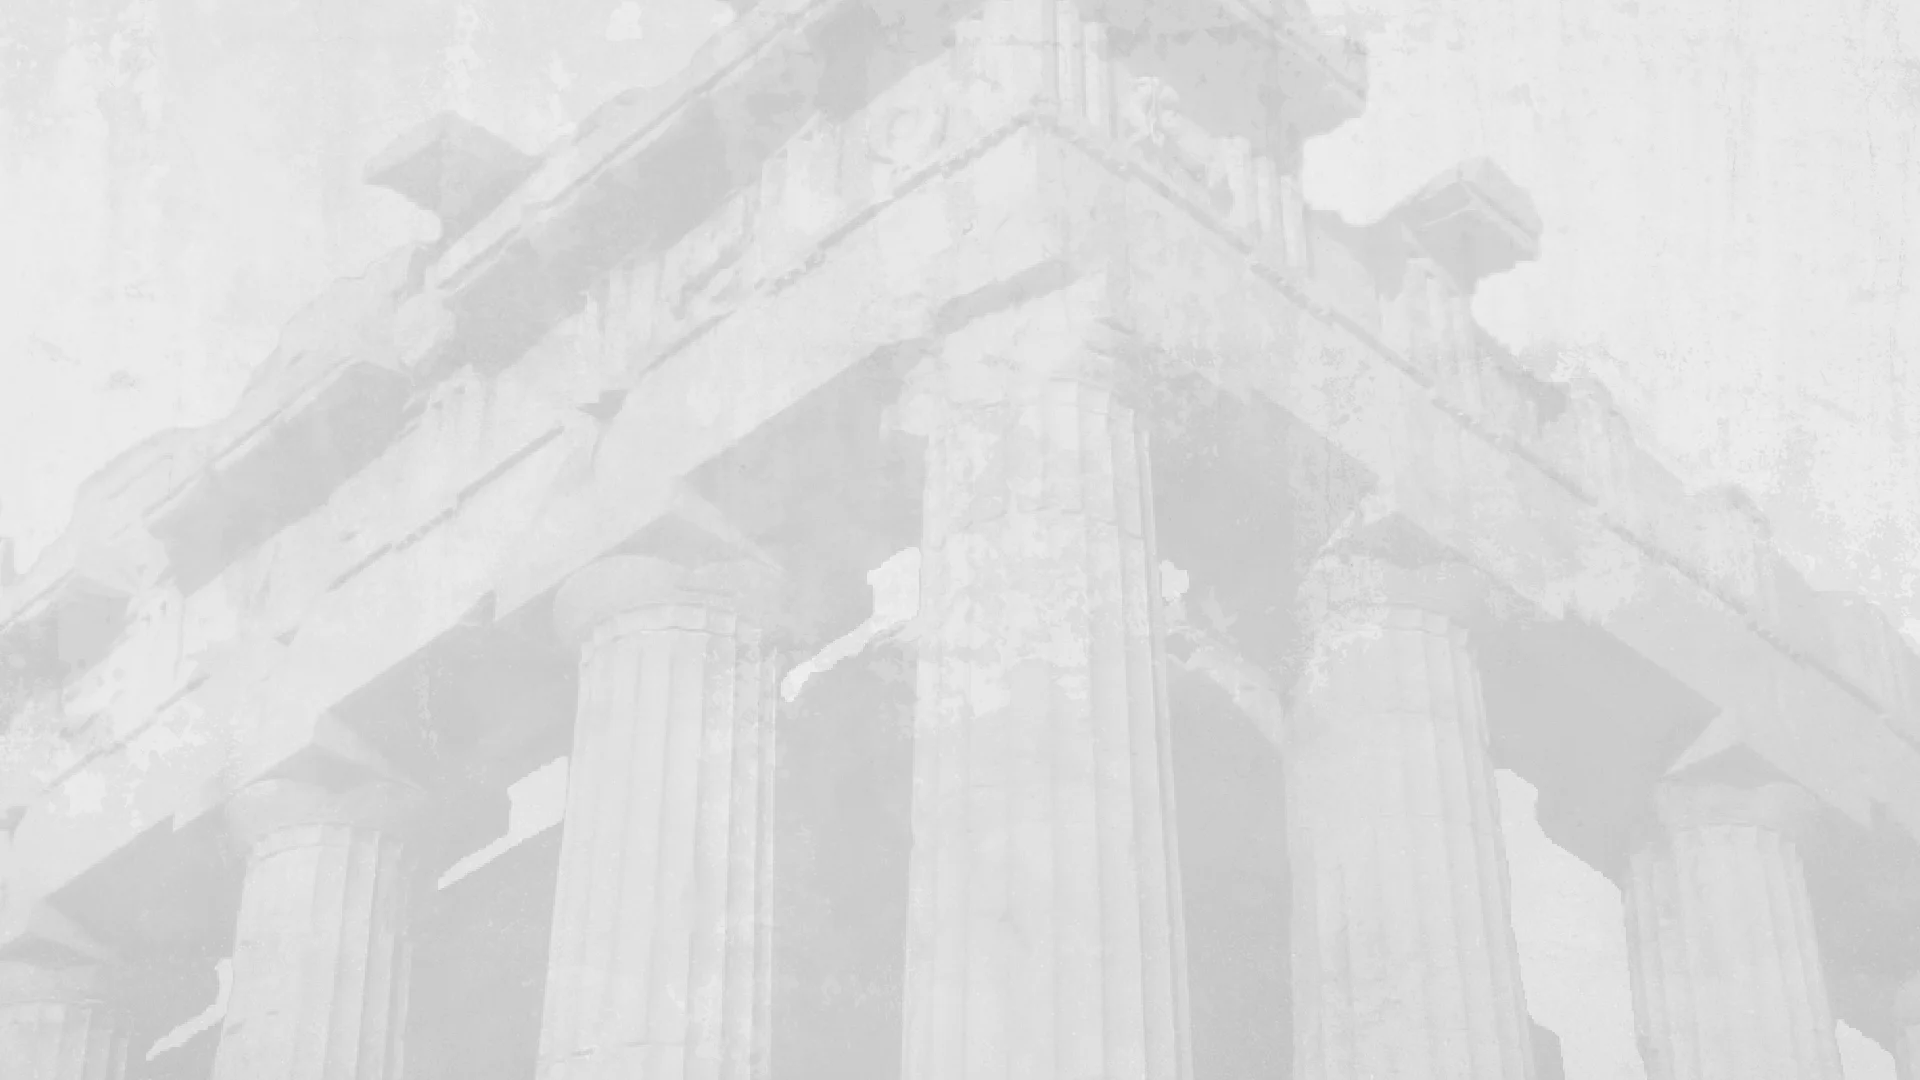
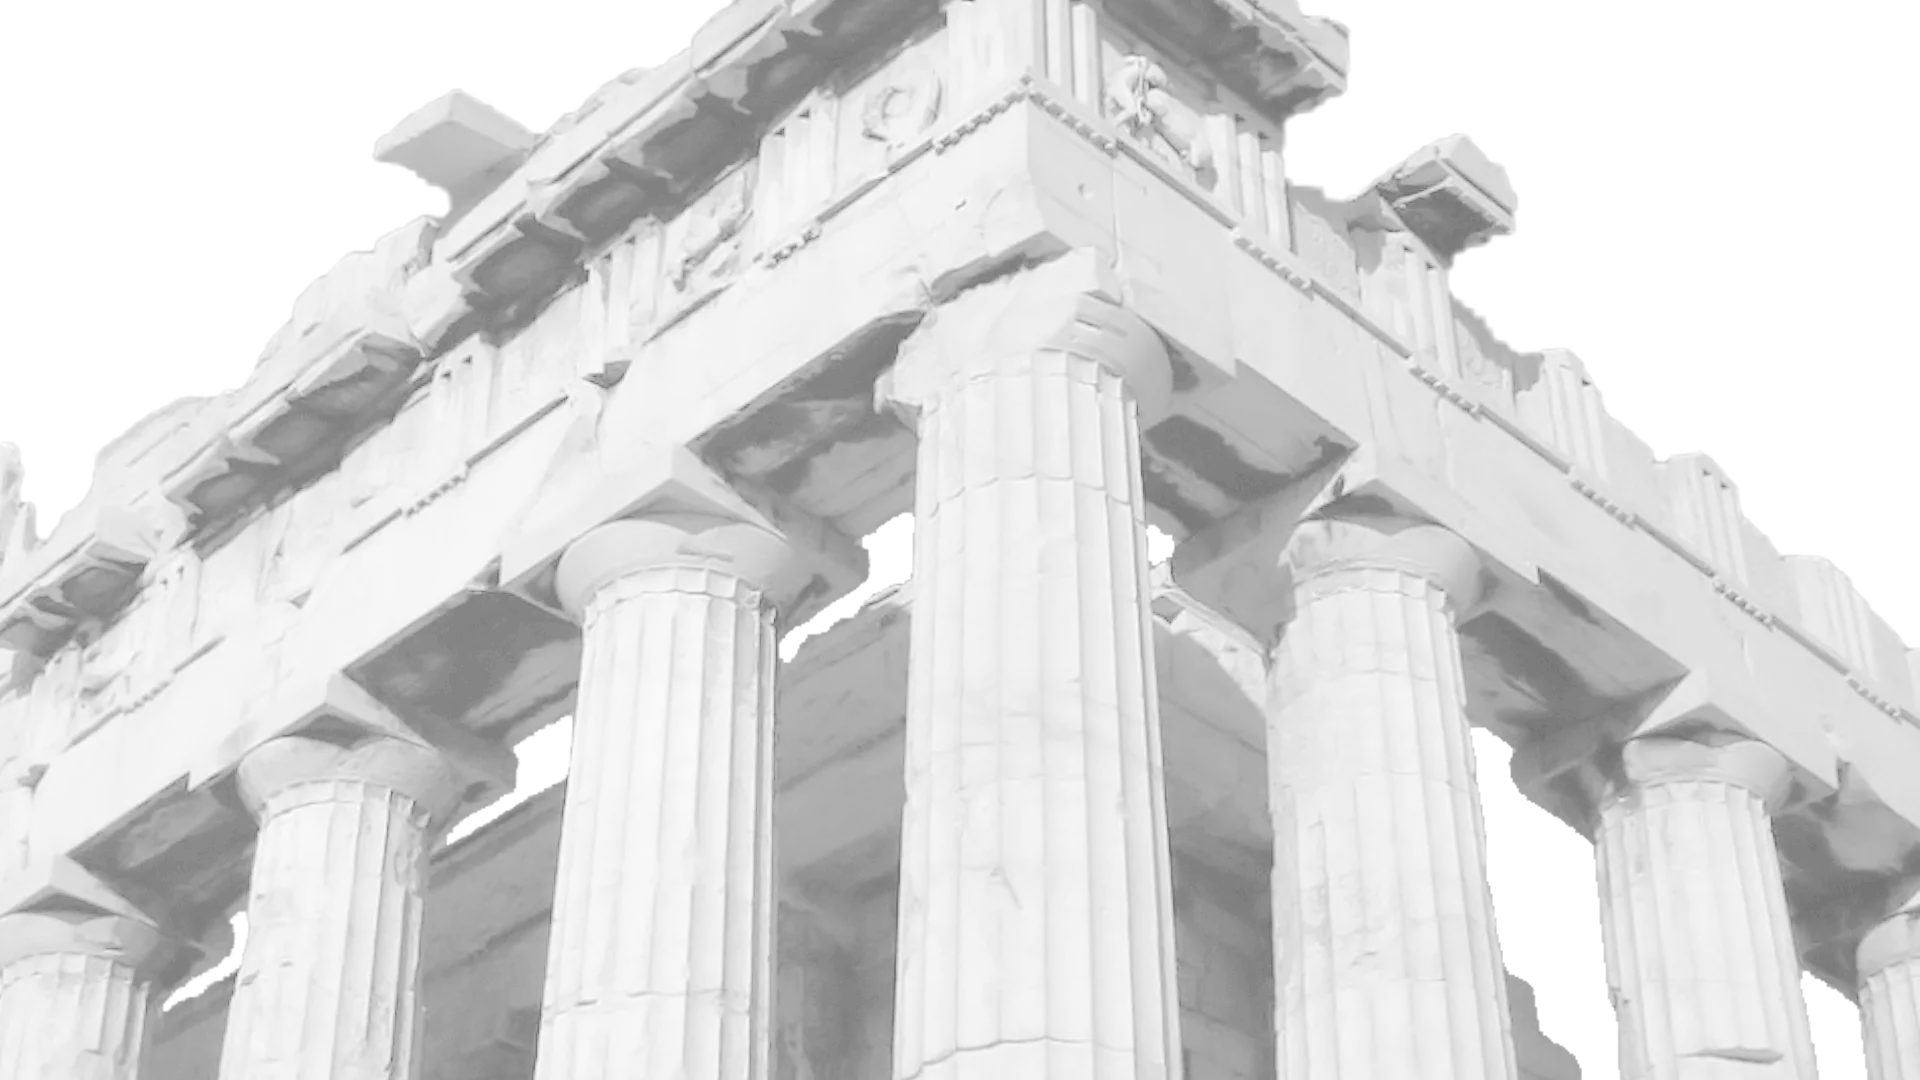
background's elements animation on about-us screen.

diff --git a/anime_website/src/screens/About_Us.js b/anime_website/src/screens/About_Us.js
@@ -5,7 +5,8 @@ import InfoBox from '../components/InfoBox';
 import image1 from '../images/aboutUs/1.jpg';
 import image2 from '../images/aboutUs/2.jpg';
 import image3 from '../images/aboutUs/3.jpg';
-import backgroundImage from '../images/background/about-bg.webp';
+import backgroundImage from '../images/background/production-bg.webp';
+import backgroundImage1 from '../images/background/about-bg.webp';
 
 export default function About_Us(){
     const [info, setInfo] = useState([]);
@@ -52,6 +53,10 @@ export default function About_Us(){
             backgroundAttachment: 'fixed'
             }}
         >
+            <div className='about-background-elements'>
+		        <img src={backgroundImage1} data-aos={'fade-down'} className='about-bg-1'/>
+		    </div>
+
             <Navbar showLogo={showLogo}/>
             <div className="services-container"
 				style={{

diff --git a/anime_website/src/screens/About_Us.css b/anime_website/src/screens/About_Us.css
@@ -41,3 +41,33 @@
         margin-bottom: 5px;
     }
 }
+
+.about-background-elements{
+    width: 100%;
+    height: 100%;
+    position: fixed;
+    text-align:center;
+    display: flex;
+    z-index: -1;
+    opacity: 0.5;
+}
+
+@media (orientation: landscape){
+    .about-bg-1{
+        width: 100%;
+        top: 0;
+        left: 0;
+        position: absolute;
+        z-index: -1;
+    }
+}
+
+@media (orientation: portrait){
+    .about-bg-1{
+        height: 100%;
+        top: 0;
+        left: -40%;
+        position: absolute;
+        z-index: -1;
+    }
+}
